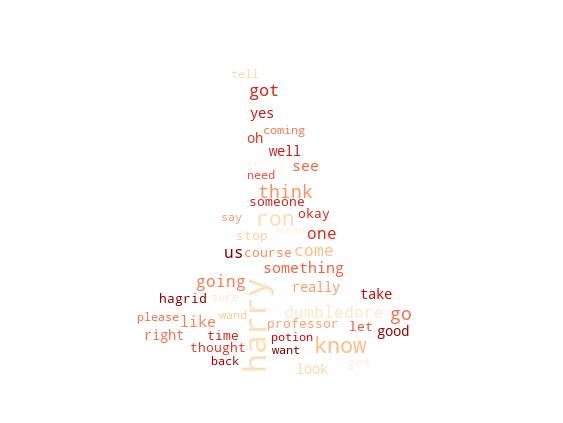
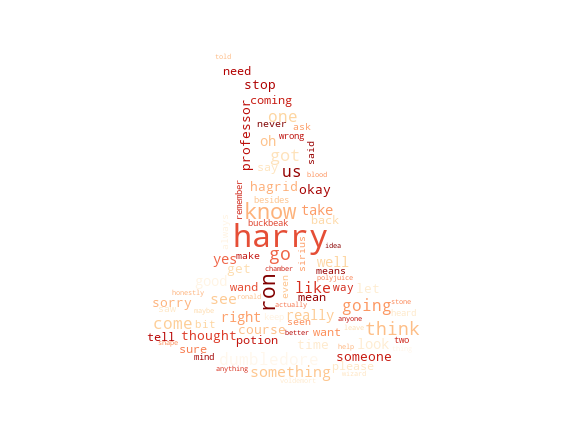
20210415 CL updated wordcloud images

Changed region(s): [[0.2416, 0.1229, 0.7549, 0.922]]

diff --git a/backend/wordcloud.py b/backend/wordcloud.py
@@ -10,29 +10,23 @@ from sklearn.feature_extraction.text import CountVectorizer
 # 1. 대본 전처리
 
 def process_df(file_path):
-
     def explode(df, lst_cols, fill_value='', preserve_index=False):
         idx_cols = df.columns.difference(lst_cols)
         lens = df[lst_cols[0]].str.len()
         idx = np.repeat(df.index.values, lens)
-
         res = (pd.DataFrame({
                     col:np.repeat(df[col].values, lens)
                     for col in idx_cols},
                     index=idx)
                  .assign(**{col:np.concatenate(df.loc[lens>0, col].values)
                                 for col in lst_cols}))
-
         if (lens == 0).any():
             res = (res.append(df.loc[lens==0, idx_cols], sort=False)
-                      .fillna(fill_value))
-            
+                      .fillna(fill_value))    
         res = res.sort_index()
-        
         if not preserve_index:        
             res = res.reset_index(drop=True)
         return res
-
     df = pd.read_csv(file_path)
     df['dialog_processed']=df['dialog'].apply(lambda s: sent_tokenize(str(s).lower()))
     return explode(df,['dialog_processed'])
@@ -48,7 +42,6 @@ remove_punctuation_dict = {',':'','.':'','!':'','?':''}
 all_movies_df = all_movies_df.replace({'dialog_processed': remove_punctuation_dict})
 
 all_movies_df = all_movies_df[all_movies_df.dialog_processed.apply(lambda x: len(str(x)) > 1)]
-
 dialog_df = all_movies_df[['character', 'dialog_processed']]
 
 # 2. 워드 클라우드
@@ -63,15 +56,11 @@ def word_cloud(characters):
         new_stopwords = stopwords.words("english")
         add_stopwords = ["sir", "mr","may","must", "i'm", "i'll", "let's", "would","could"]
         new_stopwords.extend(add_stopwords)
-
         cv=CountVectorizer(stop_words = new_stopwords)
-        
         X = cv.fit_transform(corpus)
         X = X.toarray()
-
         bow = pd.DataFrame(X, columns = cv.get_feature_names())
         bow.index = characters
-      
         for character in characters:
             text = bow.loc[character].sort_values(ascending=False)[:100]
             text_dict = text.to_dict()
@@ -84,8 +73,9 @@ def word_cloud(characters):
                 colormap="Blues"
             else:
                 colormap=None
-            wordcloud = WordCloud(width = 600, height = 600, mask=hat_mask, min_font_size=12, max_font_size=32, mode = "RGBA", background_color=None, colormap=colormap, relative_scaling=.5)
+            wordcloud = WordCloud(width = 600, height = 600, mask=hat_mask, min_font_size=7, max_font_size=32, mode = "RGBA", background_color=None, colormap=colormap)
             wordcloud = wordcloud.generate_from_frequencies(text_dict)
+            plt.figure(figsize=(12,12))
             plt.imshow(wordcloud, interpolation="bilinear")
             plt.tight_layout(pad=0)
             plt.axis("off")
